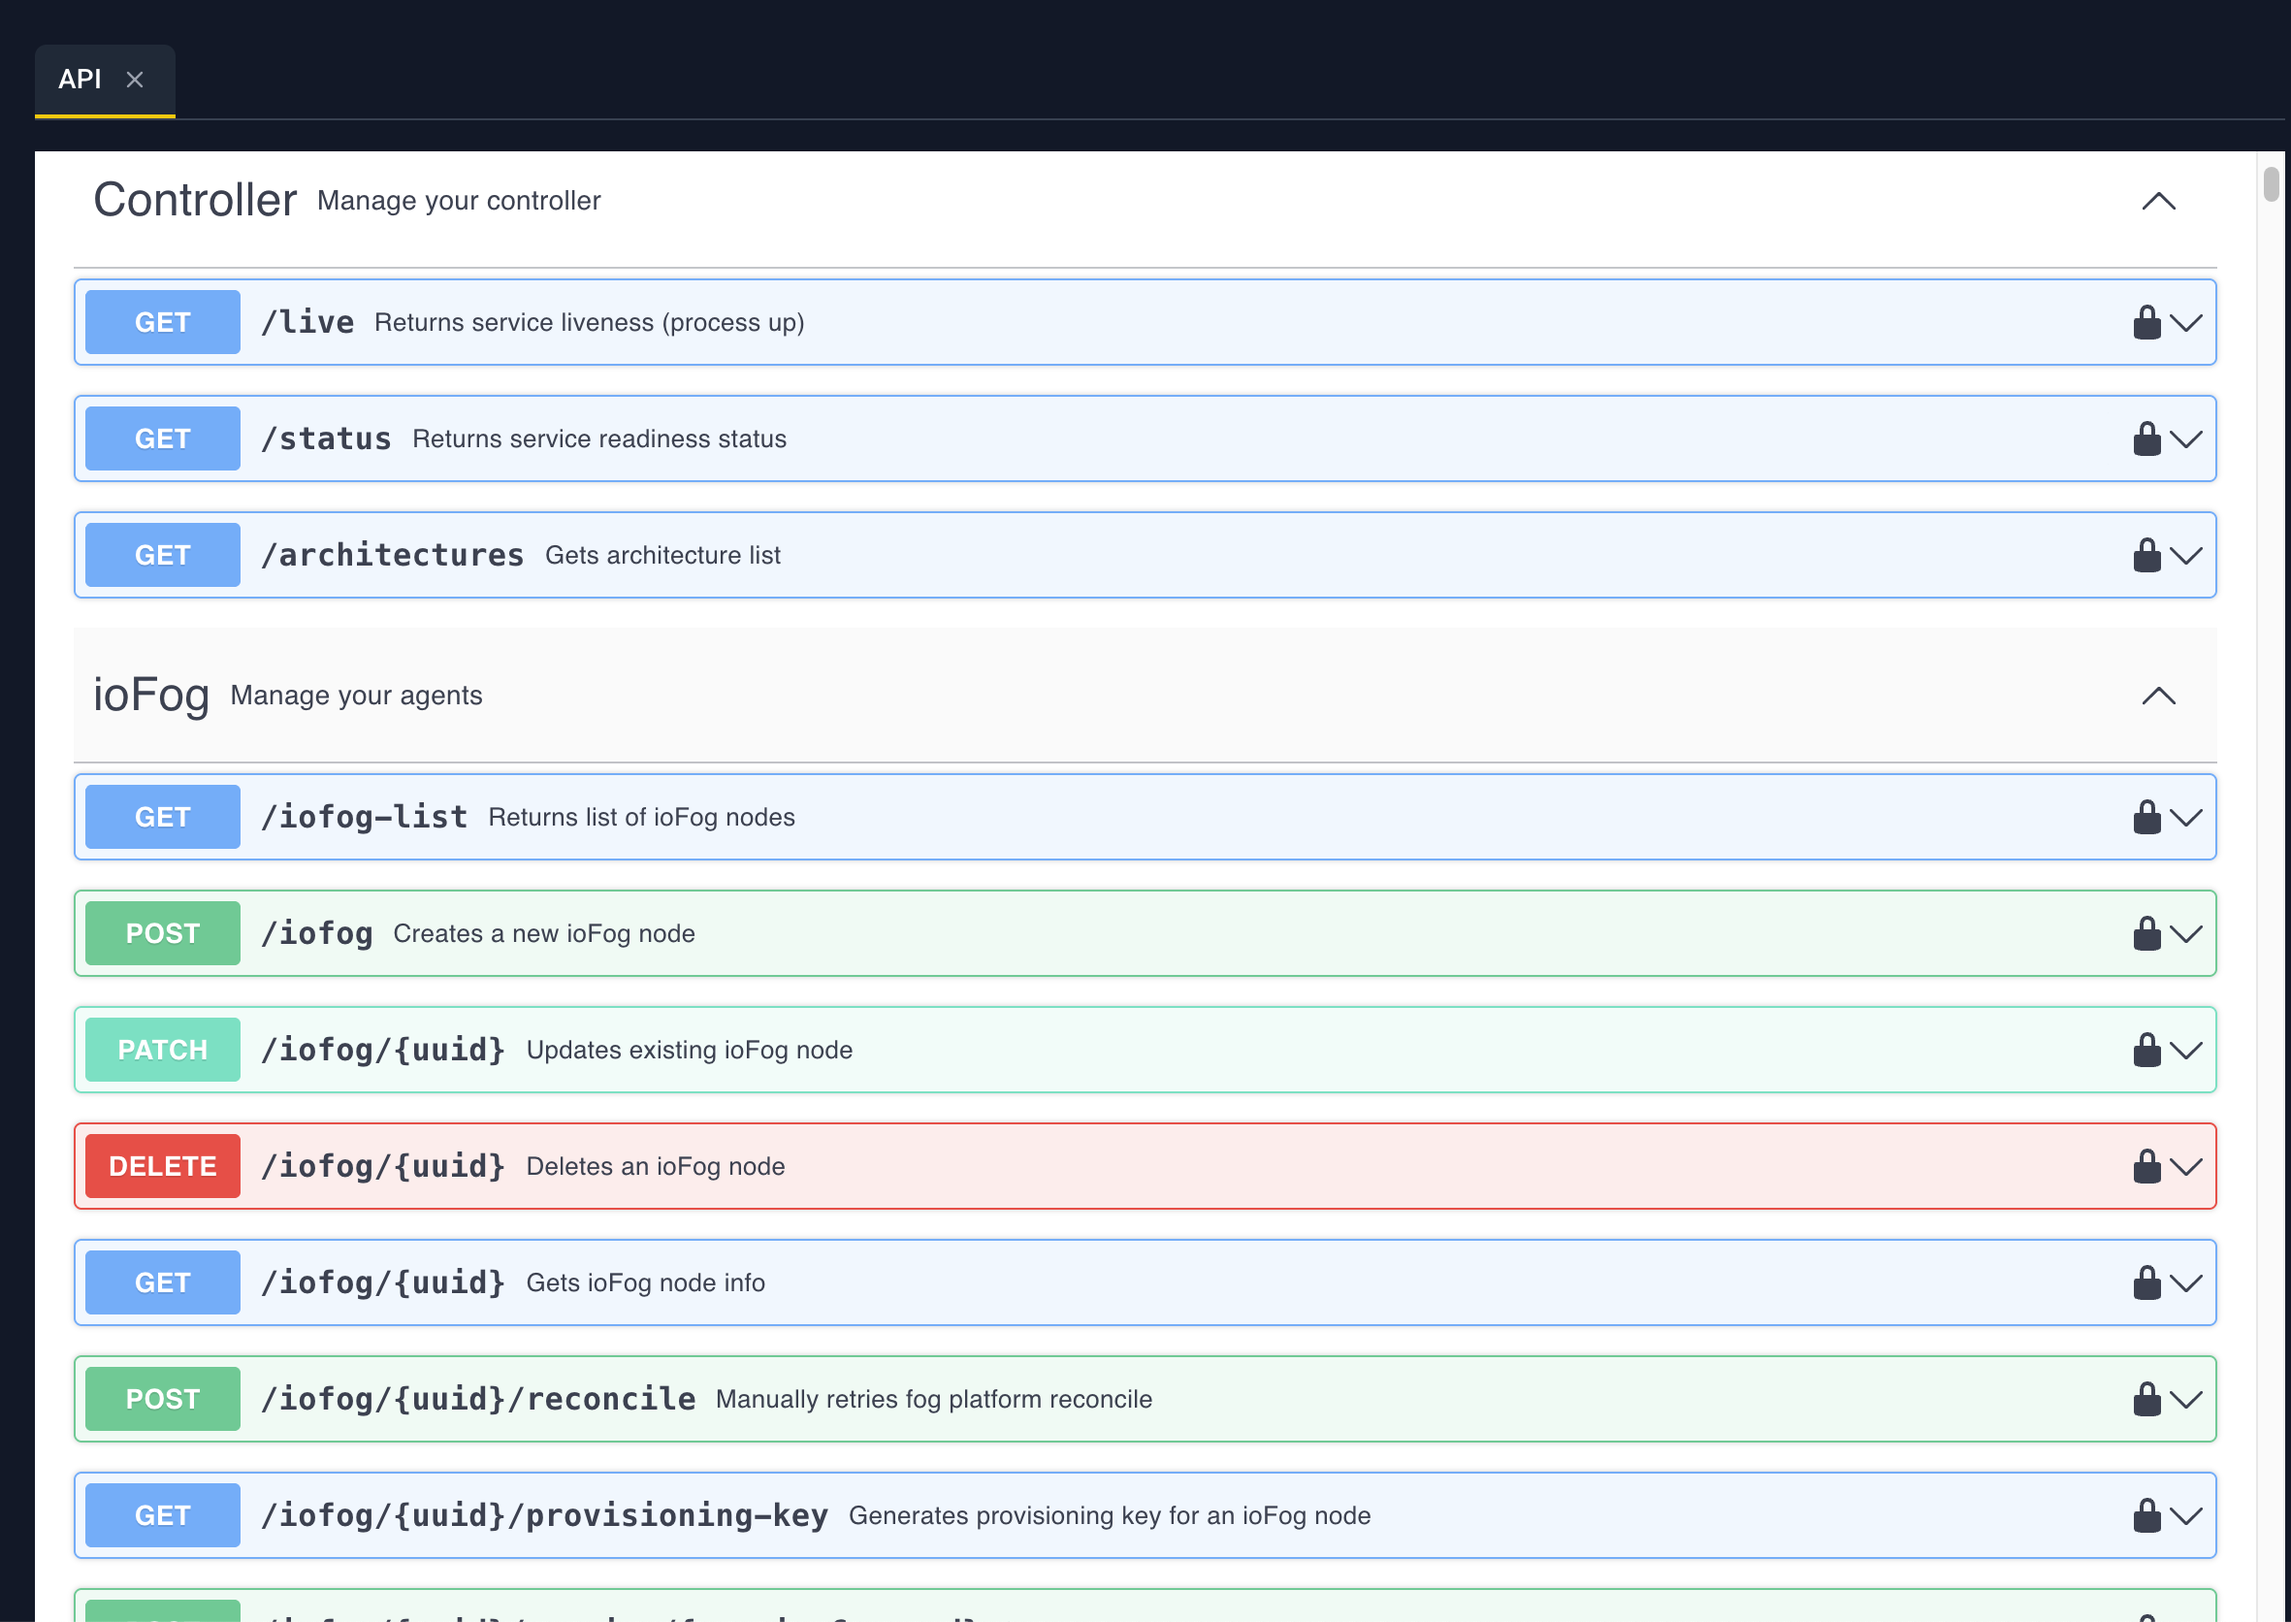
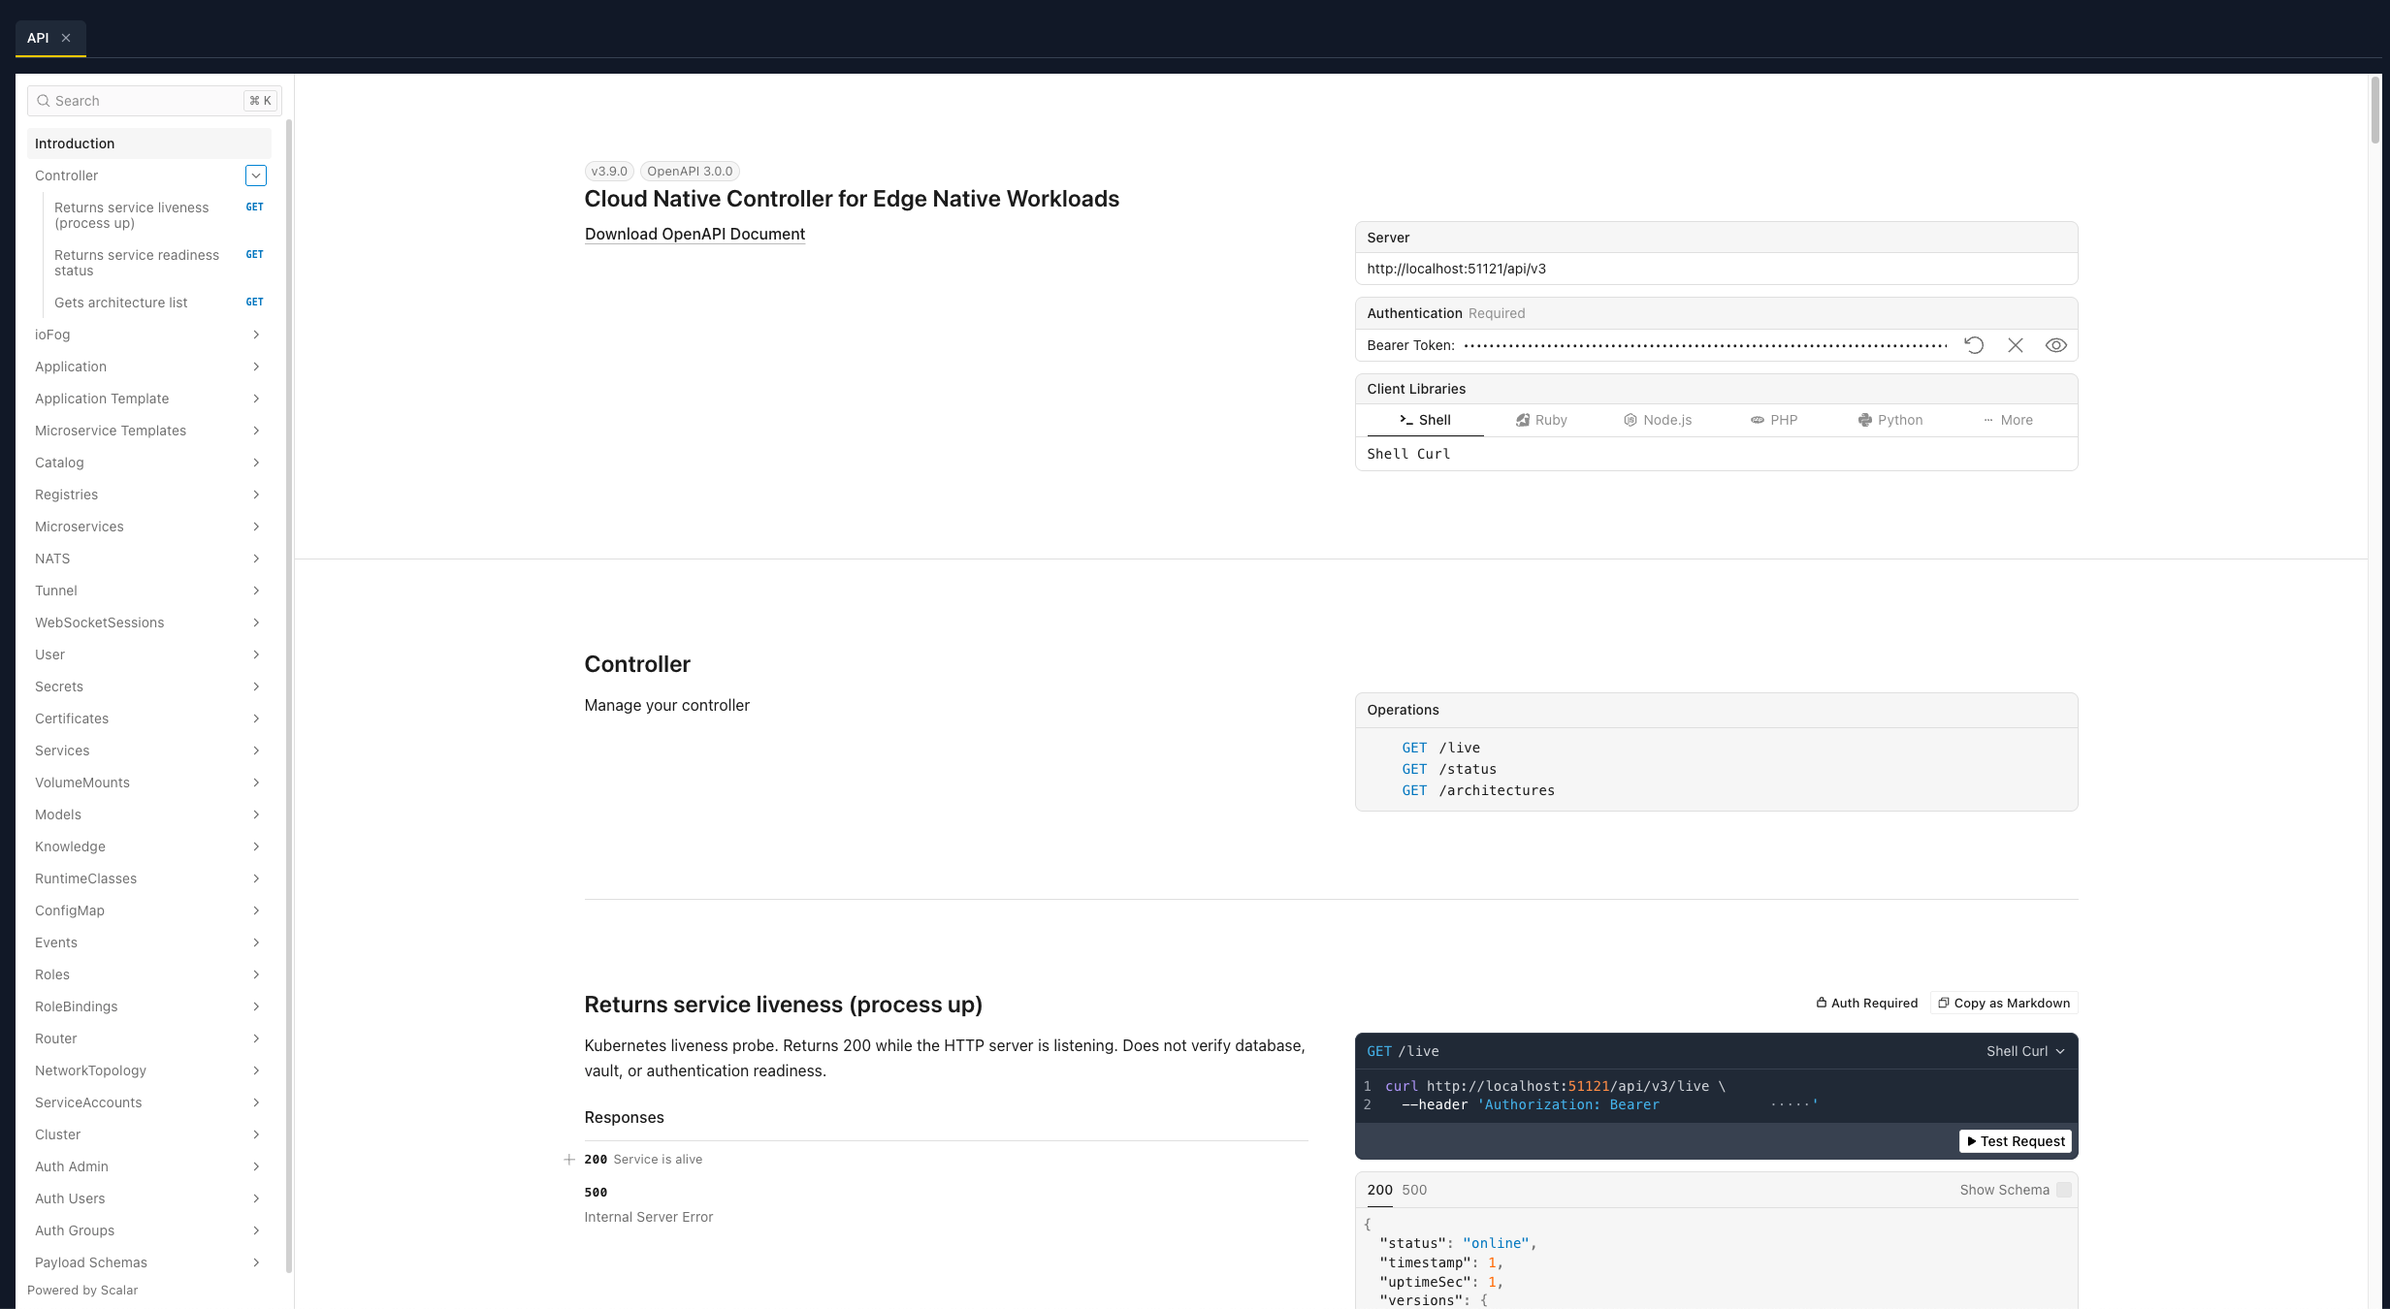
docs(user-guide): describe the API tab as an API reference

diff --git a/docs/user-guide/11-events-console-and-api.md b/docs/user-guide/11-events-console-and-api.md
@@ -113,12 +113,12 @@ Mesh Graph does not follow the main interval. Use **Refresh** on that page. The 
 
 ## API
 
-![Swagger](./images/api-swagger.png)
+![API reference](./images/api-swagger.png)
 
 **Sidebar footer:** API (visible when the sidebar is expanded)  
 **Address:** `/#/api`
 
-**API** opens a pinned workbench tab. The tab loads Swagger UI for the Controller API. The console passes the current sign-in token and the API base address into that view, so **Authorize** is already set to the bearer token you are using.
+**API** opens a pinned workbench tab. The tab loads an API reference for the Controller API. The console passes the current sign-in token and the API base address into that view, so requests are already authenticated with the bearer token you are using.
 
 While the spec loads, the page says **Loading...**. The explorer scrolls inside the tab.
 

diff --git a/docs/user-guide/images/README.md b/docs/user-guide/images/README.md
@@ -119,7 +119,7 @@ Put PNG files in this folder. Each caption in the guide names the file. Suggeste
 - `events-slideover.png` - event detail panel
 - `events-delete.png` - Delete Events dialog
 - `console-polling.png` - Polling Settings
-- `api-swagger.png` - API tab with Swagger UI
+- `api-swagger.png` - API tab with the API reference
 - `yaml-dropzone.png` - dropzone idle and while dragging a file
 <!-- - `yaml-toasts.png` - success and failure toasts after an upload
 - `yaml-editor.png` - YAML editor tab and Save
